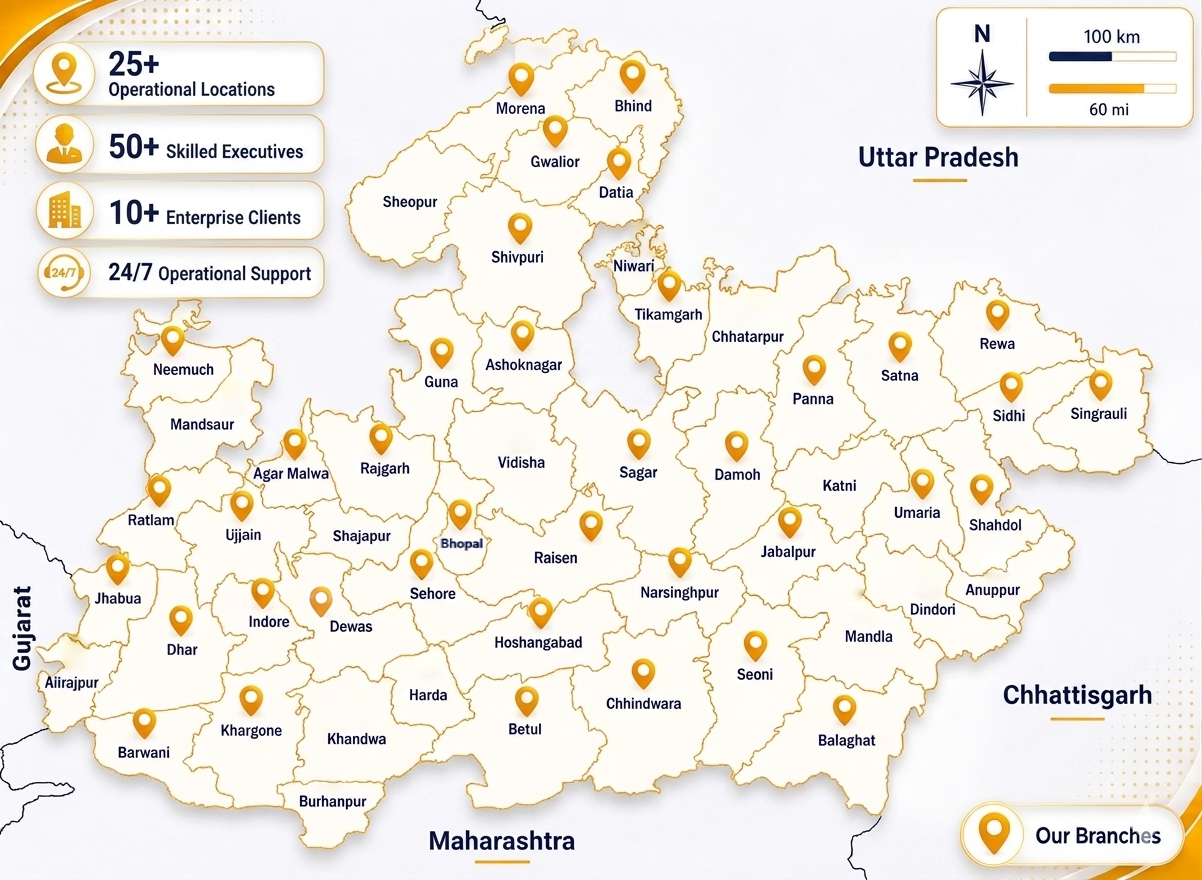
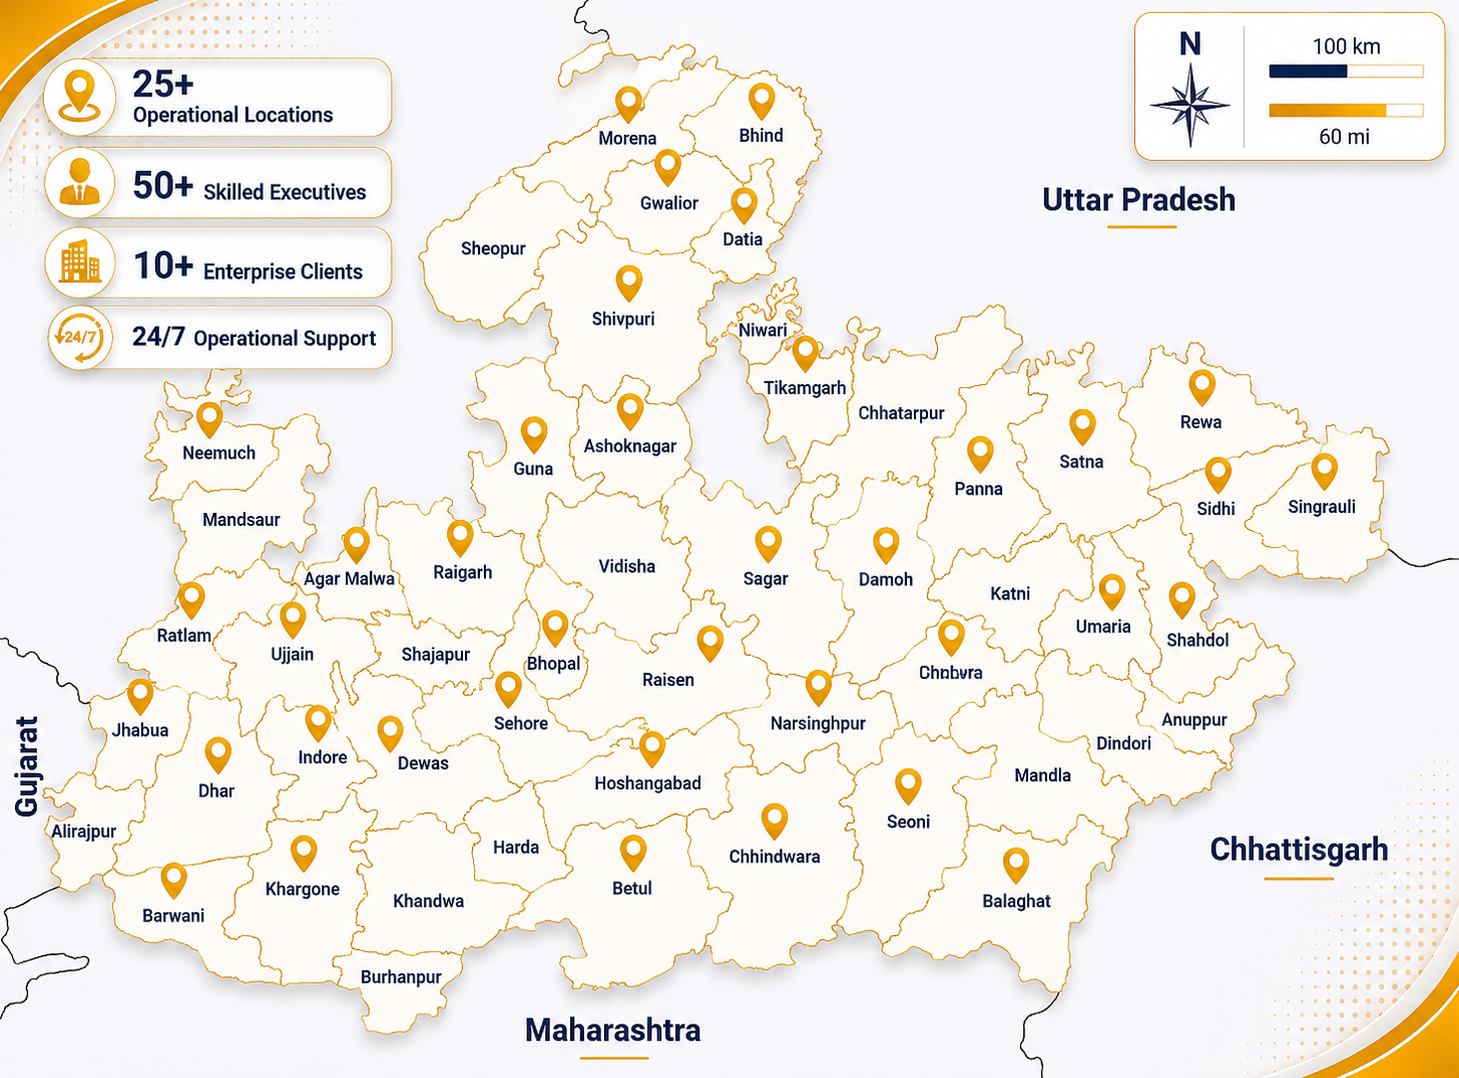
map update

diff --git a/client/src/pages/ServicesPage.css b/client/src/pages/ServicesPage.css
@@ -305,3 +305,129 @@
     font-size: 36px;
   }
 }
+
+/* IMAGE POPUP */
+
+.operations-right {
+  position: relative;
+  cursor: pointer;
+}
+
+.presence-image {
+  transition: all 0.4s ease;
+}
+
+.presence-image:hover {
+  transform: translateY(-6px) scale(1.02);
+}
+
+.image-hint {
+  position: absolute;
+  bottom: 20px;
+  right: 20px;
+  background: rgba(7, 28, 60, 0.9);
+  color: white;
+  padding: 10px 18px;
+  border-radius: 50px;
+  font-size: 13px;
+  font-weight: 600;
+  backdrop-filter: blur(10px);
+}
+
+.map-modal-overlay {
+  position: fixed;
+  inset: 0;
+  z-index: 9999;
+
+  display: flex;
+  justify-content: center;
+  align-items: center;
+
+  background: rgba(0, 0, 0, 0.85);
+  backdrop-filter: blur(10px);
+
+  animation: fadeIn 0.3s ease;
+}
+
+.map-modal-content {
+  position: relative;
+  width: 95%;
+  max-width: 1400px;
+  max-height: 95vh;
+
+  animation: zoomIn 0.35s ease;
+}
+
+.map-modal-image {
+  width: 100%;
+  max-height: 95vh;
+  object-fit: contain;
+
+  border-radius: 20px;
+
+  box-shadow:
+    0 30px 80px rgba(0, 0, 0, 0.35),
+    0 0 0 1px rgba(255, 255, 255, 0.1);
+}
+
+.modal-close-btn {
+  position: absolute;
+  top: -16px;
+  right: -16px;
+
+  width: 50px;
+  height: 50px;
+
+  border: none;
+  border-radius: 50%;
+
+  background: white;
+  color: #071c3c;
+
+  font-size: 20px;
+  font-weight: bold;
+
+  cursor: pointer;
+
+  box-shadow: 0 10px 30px rgba(0, 0, 0, 0.3);
+
+  transition: all 0.3s ease;
+}
+
+.modal-close-btn:hover {
+  transform: rotate(90deg);
+}
+
+@keyframes fadeIn {
+  from { opacity: 0; }
+  to { opacity: 1; }
+}
+
+@keyframes zoomIn {
+  from {
+    opacity: 0;
+    transform: scale(0.92);
+  }
+  to {
+    opacity: 1;
+    transform: scale(1);
+  }
+}
+
+@media (max-width: 768px) {
+  .map-modal-content {
+    width: 98%;
+  }
+
+  .modal-close-btn {
+    top: 10px;
+    right: 10px;
+    width: 42px;
+    height: 42px;
+  }
+
+  .image-hint {
+    font-size: 12px;
+    padding: 8px 14px;
+  }
+}

diff --git a/client/src/pages/ServicesPage.jsx b/client/src/pages/ServicesPage.jsx
@@ -1,4 +1,6 @@
 import "./ServicesPage.css";
+import { useState } from "react";
+import ourPresence from "/our_presence.png";
 import {
   FaChartLine,
   FaShieldAlt,
@@ -8,6 +10,9 @@ import {
 } from "react-icons/fa";
 
 function ServicesPage() {
+
+  const [showMapModal, setShowMapModal] = useState(false);
+
   const features = [
     {
       icon: <FaMapMarkedAlt />,
@@ -85,12 +90,15 @@ function ServicesPage() {
           {/* RIGHT SIDE */}
           <div className="operations-right">
             <img
-              src="our_presence.png"
+              src={ourPresence}
               alt="Operational Presence"
-              onError={(e) => {
-                e.target.src = "https://images.unsplash.com/photo-1454165804606-c3d57bc86b40";
-              }}
+              className="presence-image"
+              onClick={() => setShowMapModal(true)}
             />
+
+            <div className="image-hint">
+              Click to Expand
+            </div>
           </div>
         </div>
       </section>
@@ -113,6 +121,31 @@ function ServicesPage() {
           ))}
         </div>
       </section>
+
+              {showMapModal && (
+          <div
+            className="map-modal-overlay"
+            onClick={() => setShowMapModal(false)}
+          >
+            <div
+              className="map-modal-content"
+              onClick={(e) => e.stopPropagation()}
+            >
+              <button
+                className="modal-close-btn"
+                onClick={() => setShowMapModal(false)}
+              >
+                ✕
+              </button>
+
+              <img
+                src={ourPresence}
+                alt="Operational Presence"
+                className="map-modal-image"
+              />
+            </div>
+          </div>
+        )}
     </div>
   );
 }
